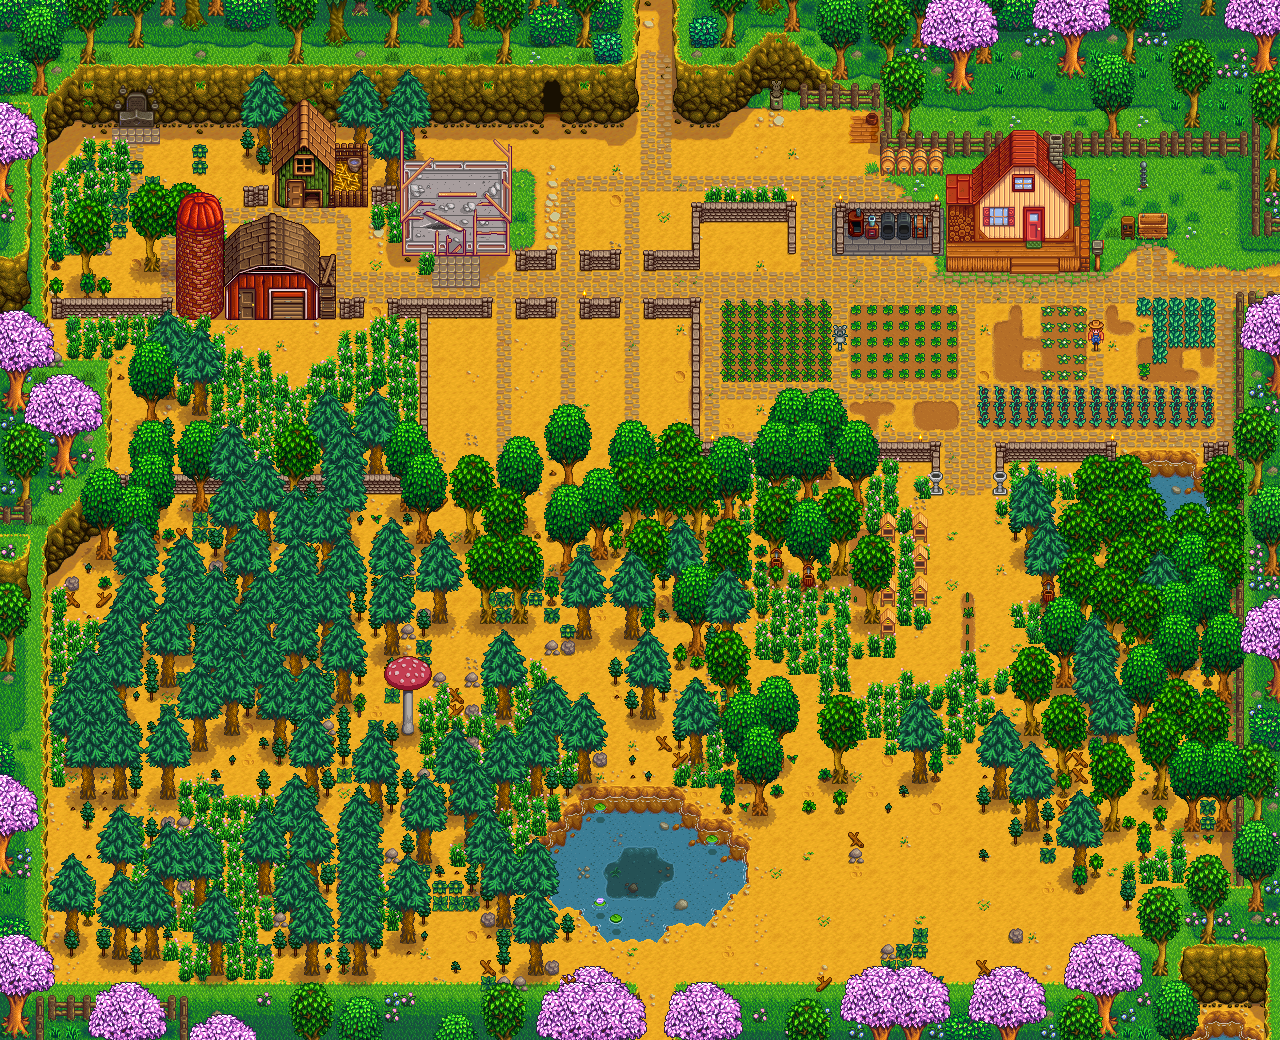
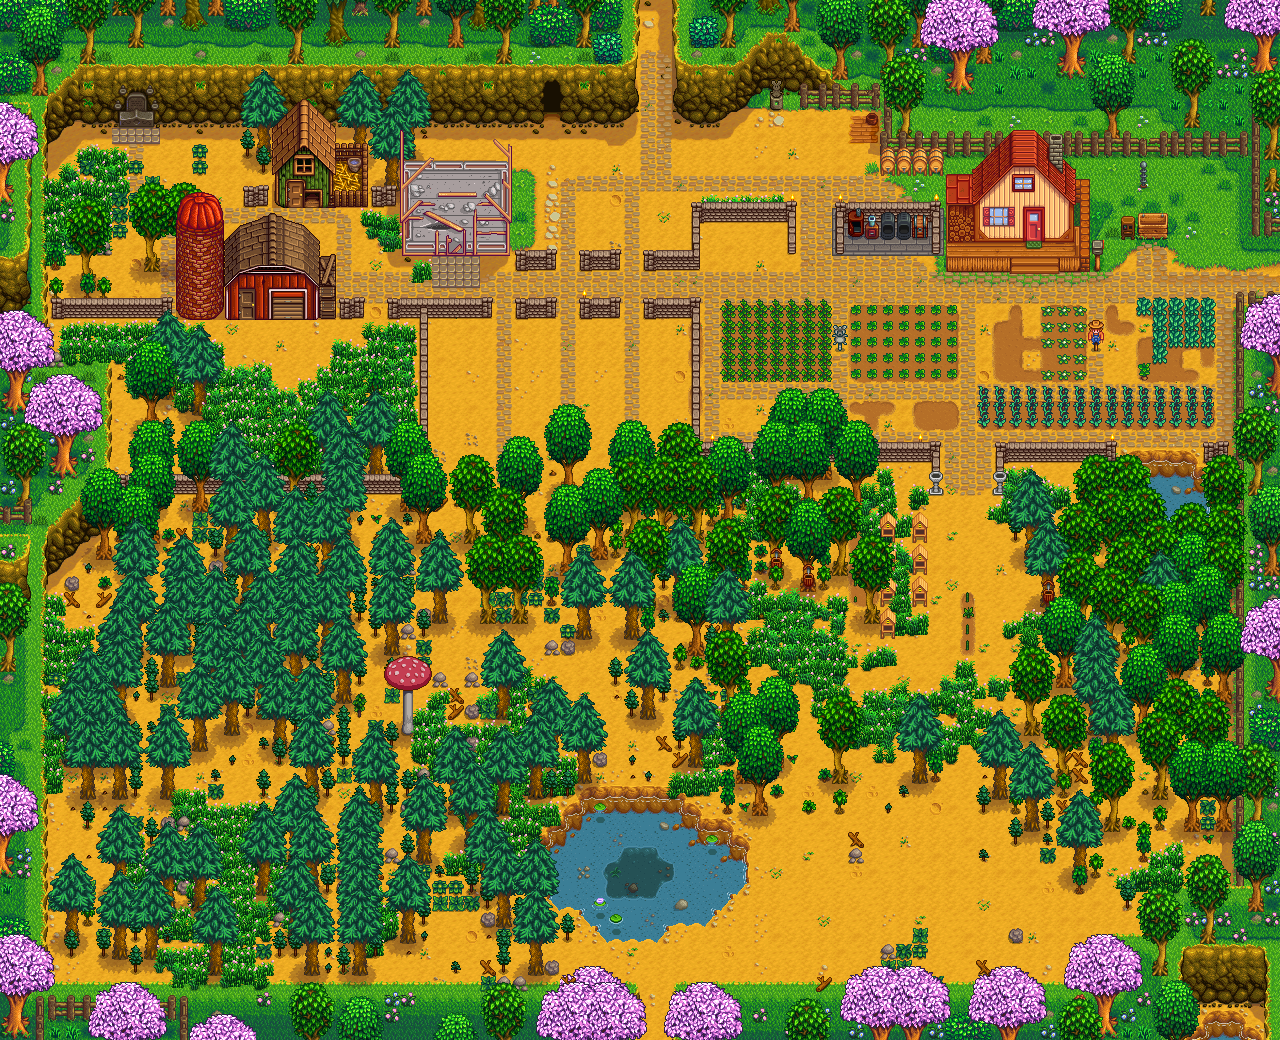
Make grass look nicer
This makes the grass look nicer by moving it around much like the game
does.  Cannot be perfect as game draws enlarged tiles and moves grass with
alignment less than an original pixel, but this tool draws original tiles
1:1

Unsure if there are other issues than the half-pixel positioning, but
this makes issue #4 look a lot better.

diff --git a/view/draw_grass.go b/view/draw_grass.go
@@ -39,15 +39,23 @@ func drawGrass(pm *parser.Map, season string, item *parser.TerrainItem, img draw
 	if item.Value.TerrainFeature.Type != "Grass" {
 		return
 	}
-	whichWeed := rand.Perm(5)
-	if item.Value.TerrainFeature.NumberOfWeeds >= len(whichWeed) {
+	var whichWeed [4]int
+
+	if item.Value.TerrainFeature.NumberOfWeeds > len(whichWeed) {
+		log.Printf("Too many NumberOfWeeds with value %d", item.Value.TerrainFeature.NumberOfWeeds)
 		return
 	}
-	offsetWeeds := [4][]int{
-		rand.Perm(5),
-		rand.Perm(5),
-		rand.Perm(5),
-		rand.Perm(5),
+
+	for i, _ := range whichWeed {
+		whichWeed[i] = rand.Intn(3)
+	}
+
+	var offsetWeeds [4][4]int
+
+	for i, b := range offsetWeeds {
+		for j, _ := range b {
+			offsetWeeds[i][j] = rand.Intn(5) - 2
+		}
 	}
 	flipWeed := [4]bool{
 		rand.Float32() < 0.5,
@@ -55,22 +63,21 @@ func drawGrass(pm *parser.Map, season string, item *parser.TerrainItem, img draw
 		rand.Float32() < 0.5,
 		rand.Float32() < 0.5,
 	}
+
 	m := pm.TMX
 	src, err := pm.FetchSource("../TerrainFeatures/grass.png")
 	if err != nil {
 		log.Fatalf("Error fetching image asset %v", err)
 	}
 	for i, weed := range whichWeed[0:item.Value.TerrainFeature.NumberOfWeeds] {
+
 		if i >= len(flipWeed) {
 			continue
 		}
-		idx := 0
-		if weed > 0 && weed < len(whichWeed) {
-			idx = whichWeed[weed] * 15
-		}
-		sr := grassRect(idx, item.Value.TerrainFeature.GrassType, season)
-		r := sr.Sub(sr.Min).Add(image.Point{item.Key.Vector2.X*m.TileWidth + (offsetWeeds[2][i]),
-			item.Key.Vector2.Y*m.TileHeight - i%2*m.TileHeight/2 + offsetWeeds[3][i],
+
+		sr := grassRect(weed * 15, item.Value.TerrainFeature.GrassType, season)
+		r := sr.Sub(sr.Min).Add(image.Point{item.Key.Vector2.X*m.TileWidth + int(float32((i % 2) * m.TileWidth) / 2 + (float32(offsetWeeds[i][2]) - 6.5)),
+			item.Key.Vector2.Y*m.TileHeight - i/2*m.TileHeight/2 + offsetWeeds[i][3] + 10.,
 		})
 		if flipWeed[i] {
 			sr = xnaRect(0, 0, m.TileWidth, m.TileHeight)
